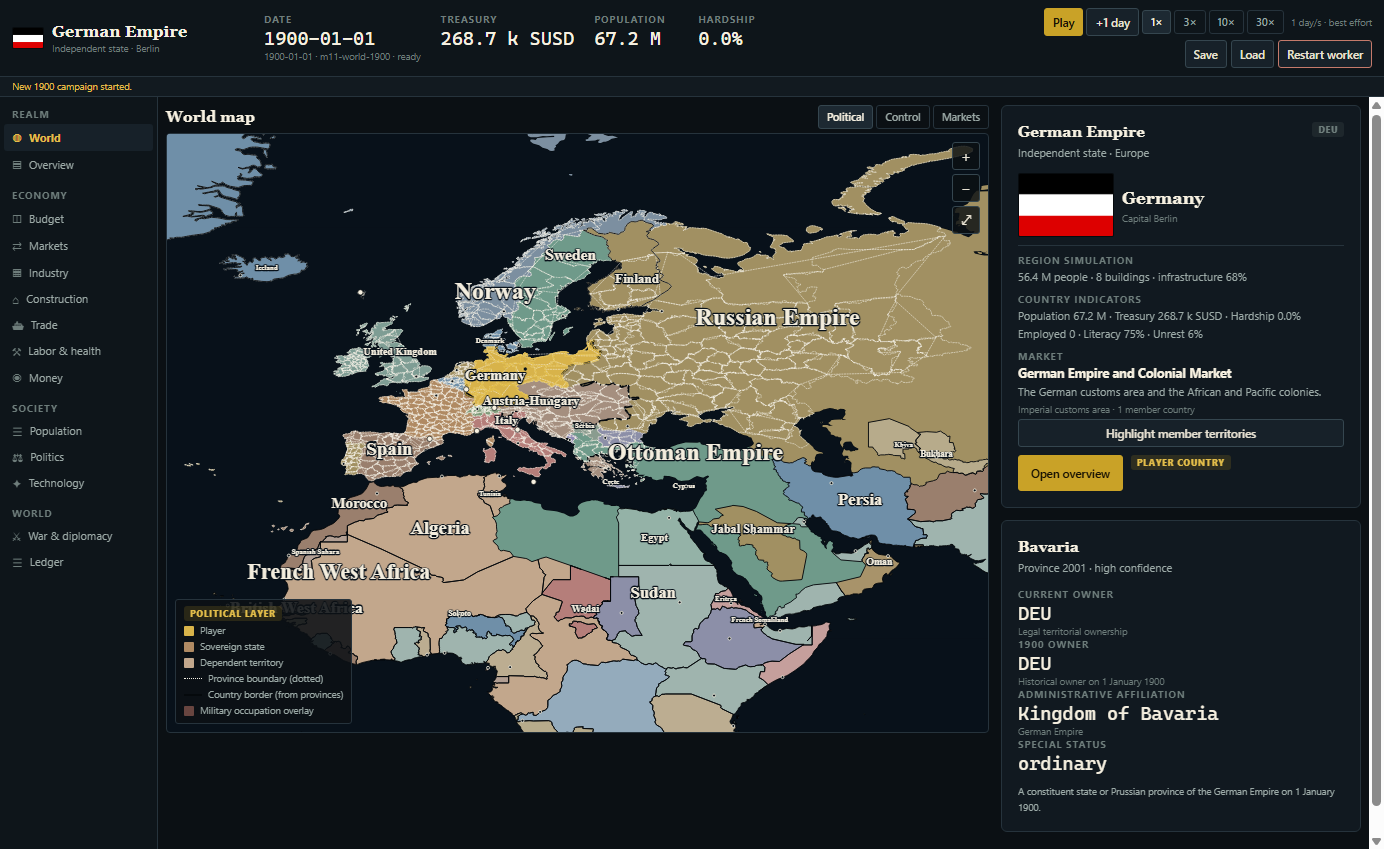
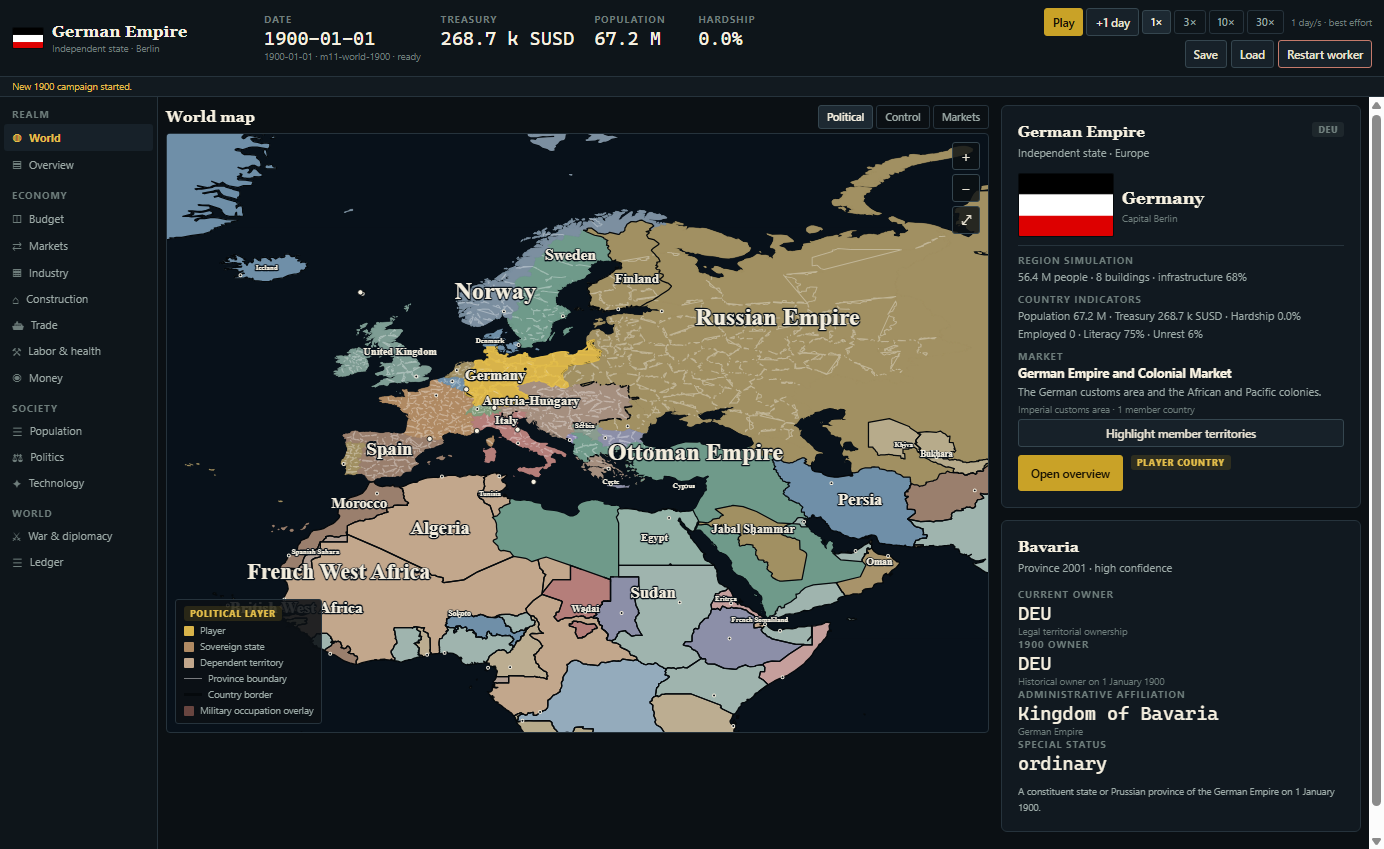
fix: simplify province borders and match country border weight

diff --git a/packages/app/src/components/WorldMap.tsx b/packages/app/src/components/WorldMap.tsx
@@ -96,12 +96,19 @@ interface DecodedProvince extends ProvinceMapProvince {
   readonly points: DecodedPolityGeometry["points"];
 }
 
-/** Provincial boundaries are thin white dotted lines; country borders are stronger. */
-const PROVINCE_BORDER_COLOR = "#f4f1e6";
-const PROVINCE_BORDER_WIDTH = 0.9;
-const PROVINCE_DASH_ON = 1.5;
-const PROVINCE_DASH_OFF = 1.7;
-const COUNTRY_BORDER_WIDTH = 1.7;
+/**
+ * Visual hierarchy (revised after playtest review):
+ * - international borders are thick near-black lines and have absolute priority;
+ * - province boundaries are quiet solid hairlines, never dashed, so they read as
+ *   a subtle internal grid instead of competing with the national borders;
+ * - only internal province edges are drawn (no coastline/outer-edge clutter).
+ * Widths are screen pixels, converted to viewBox units in the renderer.
+ */
+const PROVINCE_BORDER_COLOR = "#ffffff";
+const PROVINCE_BORDER_WIDTH_PX = 1;
+const COUNTRY_BORDER_WIDTH_PX = 1.25;
+const COASTLINE_WIDTH_PX = 0.9;
+const SELECTION_WIDTH_PX = 1.4;
 
 function centroidOf(polity: WorldMapPolity): readonly [number, number] {
   const [lon, lat] = polity.label;
@@ -298,8 +305,11 @@ export function WorldMap({
     const national: string[] = [];
     for (const border of provinceBorderPlan) {
       if (border.path === null) continue;
-      dotted.push(border.path);
-      if (border.national) national.push(border.path);
+      if (border.national) {
+        national.push(border.path);
+      } else if (border.internal) {
+        dotted.push(border.path);
+      }
     }
     return { dotted: dotted.join(""), national: national.join("") };
   }, [provinceBorderPlan]);
@@ -323,6 +333,16 @@ export function WorldMap({
     size.width > 0 && size.height > 0
       ? Math.min(size.width / MAP_WIDTH, size.height / MAP_HEIGHT)
       : 1;
+  /**
+   * Convert a desired on-screen stroke width to SVG viewBox units. The map
+   * group is scaled by both the responsive viewBox fit and the user zoom, so a
+   * value divided only by `scale` becomes sub-pixel at country zoom.
+   */
+  const strokePx = useCallback(
+    (pixels: number): number =>
+      pixels / Math.max(scale * viewScale, 0.0001),
+    [scale, viewScale],
+  );
 
   const clampTranslate = useCallback(
     (next: { x: number; y: number }, nextScale: number) => {
@@ -840,7 +860,7 @@ export function WorldMap({
                  * the identical outline rather than a separate simplified one.
                  */
                 stroke={colors.mapBorder}
-                strokeWidth={0.9 / scale}
+                strokeWidth={strokePx(COASTLINE_WIDTH_PX)}
                 pointerEvents="none"
               />
               {polities.map((polity) => {
@@ -885,7 +905,7 @@ export function WorldMap({
                         fill={provinceFillFor(province)}
                         fillRule="evenodd"
                         stroke={provinceFillFor(province)}
-                        strokeWidth={0.35 / scale}
+                        strokeWidth={strokePx(0.45)}
                         {...provincePressProps(province)}
                         accessibilityLabel={`${province.displayName}, ${
                           ownerTagByProvinceId.get(province.id) ?? province.initialOwnerTag
@@ -907,11 +927,10 @@ export function WorldMap({
                   d={provinceBorderPaths.dotted}
                   fill="none"
                   stroke={PROVINCE_BORDER_COLOR}
-                  strokeWidth={PROVINCE_BORDER_WIDTH / scale}
+                  strokeWidth={strokePx(PROVINCE_BORDER_WIDTH_PX)}
                   strokeLinejoin="round"
                   strokeLinecap="round"
-                  strokeDasharray={`${PROVINCE_DASH_ON / scale} ${PROVINCE_DASH_OFF / scale}`}
-                  opacity={scale >= 2 ? 0.78 : scale >= 1.25 ? 0.62 : 0.42}
+                  opacity={scale >= 2 ? 0.34 : scale >= 1.25 ? 0.22 : 0.12}
                   pointerEvents="none"
                 />
               ) : null}
@@ -920,7 +939,7 @@ export function WorldMap({
                   d={provinceBorderPaths.national}
                   fill="none"
                   stroke={colors.mapBorder}
-                  strokeWidth={COUNTRY_BORDER_WIDTH / scale}
+                  strokeWidth={strokePx(COUNTRY_BORDER_WIDTH_PX)}
                   strokeLinejoin="round"
                   strokeLinecap="round"
                   pointerEvents="none"
@@ -941,7 +960,7 @@ export function WorldMap({
                         fill="none"
                         fillRule="evenodd"
                         stroke={colors.accentStrong}
-                        strokeWidth={1.4 / scale}
+                        strokeWidth={strokePx(SELECTION_WIDTH_PX)}
                         strokeLinejoin="round"
                         pointerEvents="none"
                       />
@@ -953,7 +972,7 @@ export function WorldMap({
                   fill="none"
                   fillRule="evenodd"
                   stroke={colors.accentStrong}
-                  strokeWidth={1.15 / scale}
+                  strokeWidth={strokePx(1.4)}
                   strokeLinejoin="round"
                   opacity={0.9}
                   pointerEvents="none"
@@ -975,7 +994,7 @@ export function WorldMap({
                     fill="none"
                     fillRule="evenodd"
                     stroke={colors.mapBorder}
-                    strokeWidth={1.1 / scale}
+                    strokeWidth={strokePx(COUNTRY_BORDER_WIDTH_PX)}
                     strokeLinejoin="round"
                     strokeLinecap="round"
                     pointerEvents="none"
@@ -999,7 +1018,7 @@ export function WorldMap({
                         fill="none"
                         fillRule="evenodd"
                         stroke={colors.accentStrong}
-                        strokeWidth={1.4 / scale}
+                        strokeWidth={strokePx(SELECTION_WIDTH_PX)}
                         strokeLinejoin="round"
                         pointerEvents="none"
                       />
@@ -1016,8 +1035,8 @@ export function WorldMap({
                     fillOpacity={0.42}
                     fillRule="evenodd"
                     stroke={nationColor(controllerTag)}
-                    strokeWidth={1 / scale}
-                    strokeDasharray={`${2 / scale} ${1.4 / scale}`}
+                    strokeWidth={strokePx(1.1)}
+                    strokeDasharray={`${strokePx(2)} ${strokePx(1.4)}`}
                     pointerEvents="none"
                   />
                 );
@@ -1042,8 +1061,8 @@ export function WorldMap({
                         fillOpacity={0.38}
                         fillRule="evenodd"
                         stroke={nationColor(controllerTag)}
-                        strokeWidth={1 / scale}
-                        strokeDasharray={`${2 / scale} ${1.4 / scale}`}
+                        strokeWidth={strokePx(1.1)}
+                        strokeDasharray={`${strokePx(2)} ${strokePx(1.4)}`}
                         pointerEvents="none"
                       />
                     );
@@ -1089,7 +1108,7 @@ export function WorldMap({
                     r={(isSelected ? 2.6 : 1.8) / scale}
                     fill={colors.mapOcean}
                     stroke={isSelected ? colors.accentStrong : colors.textStrong}
-                    strokeWidth={1 / scale}
+                    strokeWidth={strokePx(1)}
                     pointerEvents="none"
                   />
                 );
@@ -1106,7 +1125,7 @@ export function WorldMap({
                     r={(isSelected ? 5 : 3.2) / Math.max(scale, 0.8)}
                     fill={isSelected ? colors.accentStrong : colors.textStrong}
                     stroke={colors.mapBorder}
-                    strokeWidth={0.8 / scale}
+                    strokeWidth={strokePx(0.8)}
                     {...polityPressProps(polity.tag)}
                   />
                 );
@@ -1178,11 +1197,11 @@ export function WorldMap({
             <>
               <View style={styles.legendRow}>
                 <View style={[styles.provinceLineSwatch]} />
-                <Text style={styles.legendText}>Province boundary (dotted)</Text>
+                <Text style={styles.legendText}>Province boundary</Text>
               </View>
               <View style={styles.legendRow}>
                 <View style={[styles.countryLineSwatch]} />
-                <Text style={styles.legendText}>Country border (from provinces)</Text>
+                <Text style={styles.legendText}>Country border</Text>
               </View>
             </>
           ) : null}
@@ -1300,13 +1319,12 @@ const styles = StyleSheet.create({
     width: 18,
     height: 0,
     borderTopWidth: 1,
-    borderTopColor: "#f4f1e6",
-    borderStyle: "dotted",
+    borderTopColor: "rgba(255,255,255,0.45)",
   },
   countryLineSwatch: {
     width: 18,
     height: 0,
-    borderTopWidth: 2,
+    borderTopWidth: 3,
     borderTopColor: colors.mapBorder,
   },
   occSwatch: {

diff --git a/packages/tests/src/m12a-provinces.test.ts b/packages/tests/src/m12a-provinces.test.ts
@@ -619,7 +619,7 @@ describe("M12a province inventory and geometry", () => {
     expect(lineCount).toBeGreaterThan(1000);
   });
 
-  test("province edges stay dotted inside a country and become national across owners", () => {
+  test("province edges stay internal inside a country and become national across owners", () => {
     const ownerByProvinceId = new Map(
       BUNDLE.provinces.map((province) => [province.id, province.initialOwnerTag]),
     );
@@ -652,8 +652,8 @@ describe("M12a province inventory and geometry", () => {
       (border) => border.a === alsace || border.b === alsace,
     );
     expect(alsaceNeighbours.some((border) => border.national)).toBe(true);
-    // The dotted layer always contains every edge, including same-owner ones.
-    expect(plan.filter((border) => !border.national).length).toBeGreaterThan(0);
+    // Internal same-owner edges remain in the province layer.
+    expect(plan.filter((border) => !border.national && border.internal).length).toBeGreaterThan(0);
   });
 
   test("province hit testing is zoom-independent and picks the containing province", () => {
@@ -1021,7 +1021,7 @@ describe("M12a historical reference snapshots", () => {
     expect(worldMap).toContain("PROVINCES_1900");
     expect(worldMap).toContain("decodeProvinceGeometry");
     expect(worldMap).toContain("provinceBorderPaths.dotted");
-    expect(worldMap).toContain("strokeDasharray");
+    expect(worldMap).toContain("strokePx(PROVINCE_BORDER_WIDTH_PX)");
   });
 
   test("Irish partition distinguishes the six northern counties", () => {

diff --git a/packages/app/src/components/provinceRenderPlan.ts b/packages/app/src/components/provinceRenderPlan.ts
@@ -4,7 +4,7 @@
  * Extracted from `WorldMap.tsx` so the relationship between provincial
  * ownership and drawn borders can be tested without mounting React:
  *
- * - every province edge is a dotted line (internal boundaries stay visible
+ * - every internal province edge is a subtle solid hairline (it stays visible
  *   between two provinces of the same country);
  * - an edge is "national" only when the current owners of its two provinces
  *   differ (or, for the 1900 baseline, their initial owners differ);
@@ -22,6 +22,13 @@ export interface ProvinceBorderPlanEntry {
   readonly path: string | null;
   /** True when the edge separates two different current owners. */
   readonly national: boolean;
+  /**
+   * True when both sides are provinces. Outer edges are coastlines or the
+   * boundary with a non-province area; they are not drawn as province borders
+   * (the coastline and polity borders already cover them) and must not add
+   * dotted clutter along every shore.
+   */
+  readonly internal: boolean;
 }
 
 /**
@@ -50,6 +57,7 @@ export function planProvinceBorders(
         ownerA !== undefined &&
         ownerB !== undefined &&
         ownerA !== ownerB,
+      internal: border.b >= 0,
     });
   }
   return plan;

diff --git a/packages/tests/src/m11d-map-legibility.test.ts b/packages/tests/src/m11d-map-legibility.test.ts
@@ -99,7 +99,7 @@ describe("M11d map typography", () => {
     expect(WORLD_MAP).toContain("Math.sqrt(countryWidth * countryHeight)");
     expect(WORLD_MAP).toContain("boxes.some(");
     expect(WORLD_MAP).toContain("fontSize = (screenFontSize + (selected ? 1.5 : 0)) / screenScale");
-    expect(WORLD_MAP).toContain('strokeWidth={1.1 / scale}');
+    expect(WORLD_MAP).toContain("strokePx(COUNTRY_BORDER_WIDTH_PX)");
   });
 
   test("the land mask is the single coastline source", () => {

diff --git a/M12A_COMPLETION_REPORT.md b/M12A_COMPLETION_REPORT.md
@@ -18,9 +18,9 @@ milestone delivery, verification commands and remaining uncertainties.
   preserved as `SimulationRegion` (explicit aliases added) and keeps its runtime
   field name `regions` for save compatibility; it is no longer used for map
   geometry, selection or country composition.
-- The map renders one fill per province, one dotted white edge per province
-  boundary, and a stronger solid edge only when the two provinces have different
-  current owners. Country borders are therefore reconstructed from province
+- The map renders one fill per province, one quiet solid white hairline per
+  internal province boundary, and a thin near-black country border only when the
+  two provinces have different current owners. Country borders are therefore reconstructed from province
   ownership. A 1900 polity covered by provinces does not draw its static 1900
   outline, so transfers cannot leave stale national borders.
 - Province hit-testing and selection are implemented at every zoom; the country
@@ -32,7 +32,8 @@ milestone delivery, verification commands and remaining uncertainties.
   the province map bundle. The regression test
   `map geometry no longer depends on the simulation Region layer` asserts this.
 - `WorldMap.tsx` uses `PROVINCES_1900`, `decodeProvinceGeometry`,
-  `planProvinceBorders`, `provinceBorderPaths.dotted` and `strokeDasharray`.
+  `planProvinceBorders`, `provinceBorderPaths.dotted` and the shared
+`strokePx` screen-width helper.
 - The old implicit “one map polygon = one region” relationship is gone. Map
   geometry comes exclusively from the province bundle; simulation regions no
   longer have polygons in the app.
@@ -170,13 +171,17 @@ Validation snapshots live in `packages/tests/src/m12a-provinces.test.ts`:
 ## 15. Provincial line-rendering implementation and visual results
 
 - `planProvinceBorders` classifies each shared edge by current owners.
-- Every edge is drawn with `strokeDasharray` (`1.5` on / `1.7` off screen units),
-  white `#f4f1e6`, `0.9` px at ordinary zoom, opacity `0.42` at global zoom,
-  `0.62` at continental zoom and `0.78` at country zoom.
-- A national border is a solid `colors.mapBorder` line at `1.7` px over the same
-  shared edge when owners differ; coastlines come from the single land-mask
-  stroke. Internal province dotted lines remain visible between provinces of the
-  same country.
+- Internal province edges are quiet solid white hairlines (1 screen px, no dash),
+  with opacity `0.12` at global zoom, `0.22` at continental zoom and `0.34` at
+  country zoom. They are drawn only where both sides are provinces, so coasts and
+  non-province frontiers do not add clutter.
+- A country border is a thin near-black `colors.mapBorder` line (1.25 screen px)
+  over the shared edge when owners differ. This matches the established
+  non-European polity border weight instead of producing a heavy European
+  outline; coastlines come from the single land-mask stroke.
+- All map stroke widths are converted from screen pixels using
+  `scale * viewScale`, so they stay visually constant and never become
+  sub-pixel at country zoom.
 - Static verification render: [`docs/images/m12a-provinces-1900.png`](docs/images/m12a-provinces-1900.png).
 - Real exported-app verification: [`docs/images/m12a-game-map.png`](docs/images/m12a-game-map.png)
   (global), [`docs/images/m12a-game-map-zoom.png`](docs/images/m12a-game-map-zoom.png)
@@ -187,9 +192,9 @@ Validation snapshots live in `packages/tests/src/m12a-provinces.test.ts`:
 
 ## 16. Map rendering and performance results
 
-- Province fill layer: 570 paths; province border layer: 1,528 shared-border
-  paths combined into one dotted path and one national path; polity labels remain
-  screen-constant with collision culling.
+- Province fill layer: 570 paths; province border layer: internal shared edges
+  combined into one solid hairline path and one thin national-border path; polity
+  labels remain screen-constant with collision culling.
 - No white ocean overlay: the land mask keeps its transform and no extra ocean
   layer is added; province fills are clipped to the 1900 polity polygons.
 - Hit-testing uses world coordinates, so it is invariant under zoom and pan;
@@ -201,9 +206,9 @@ Validation snapshots live in `packages/tests/src/m12a-provinces.test.ts`:
 ## 16a. Visual verification results
 
 The exported web app was driven through Chrome DevTools Protocol. At global zoom
-the province layer is intentionally subdued (0.42 opacity); at continental and
-country zoom the white dotted province edges and the stronger solid country
-borders are clearly distinguishable. Selecting Bavaria opens the province panel
+the province layer is intentionally subdued (0.12 opacity); at continental and
+country zoom the solid white province hairlines remain visible while the thin
+near-black country borders keep visual priority. Selecting Bavaria opens the province panel
 with `Province 2001 · high confidence`, current owner DEU, 1900 owner DEU,
 `Kingdom of Bavaria`, special status and the historical note. The screenshots are
 committed under `docs/images/`.

diff --git a/DECISIONS.md b/DECISIONS.md
@@ -5558,10 +5558,12 @@ whose ownership can change without rebuilding country polygons.
    (`transferProvinceOwnership`, `setProvinceControl`, claims, special status)
    never touch geometry, names or ids. Occupation changes only the controller.
 4. **Country borders are derived from current provincial ownership.** The app
-   draws every province edge as a thin white dotted line and overlays a stronger
-   solid line only where the two provinces have different current owners. A
-   1900 polity whose territory is covered by provinces does not draw its static
-   1900 outline, so a transferred province cannot leave a stale border behind.
+   draws every internal province edge as a quiet solid white hairline and a thin
+   near-black country border only where the two provinces have different current
+   owners. The country border weight matches the established non-European polity
+   borders (about 1.25 screen px); it is deliberately not a heavy outline. A 1900
+   polity whose territory is covered by provinces does not draw its static 1900
+   outline, so a transferred province cannot leave a stale border behind.
 5. **Geometry source.** Natural Earth 1:10m admin-1 units are internal blocks
    only; every province is clipped to the authored M11c 1900 polity polygon.
    Later borders that cut a 1900 unit are reconstructed as separate provinces

diff --git a/docs/EUROPE_PROVINCIALIZATION.md b/docs/EUROPE_PROVINCIALIZATION.md
@@ -21,10 +21,11 @@ bundle and audit; the bundle and the code are authoritative if they disagree.
   id and name never change. A province split is an explicit data change with a
   new id and documented coverage, not dynamic geometry surgery.
 - Country borders are reconstructed from current provincial ownership. The map
-  draws province fills by current owner; every province edge is a thin white
-  dotted line; a stronger line is drawn only where the two neighbouring provinces
-  have different current owners. Province boundaries therefore remain visible
-  between provinces of the same country.
+  draws province fills by current owner; every internal province edge is a quiet
+  solid white hairline; a thin near-black country border is drawn only where the
+  two neighbouring provinces have different current owners. Province boundaries
+  therefore remain visible between provinces of the same country. The country
+  border weight matches the established non-European polity borders.
 - Non-European territories are outside this milestone. The M11c 1900 polity
   polygons remain the underlay for colonies, Asiatic Russia, Anatolia and other
   non-European areas.
